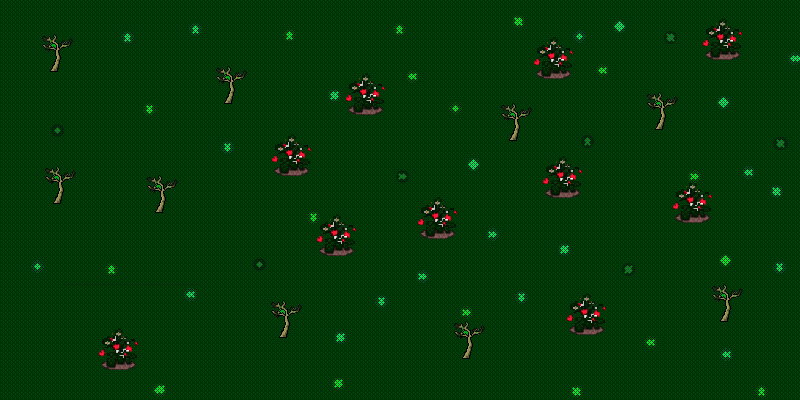
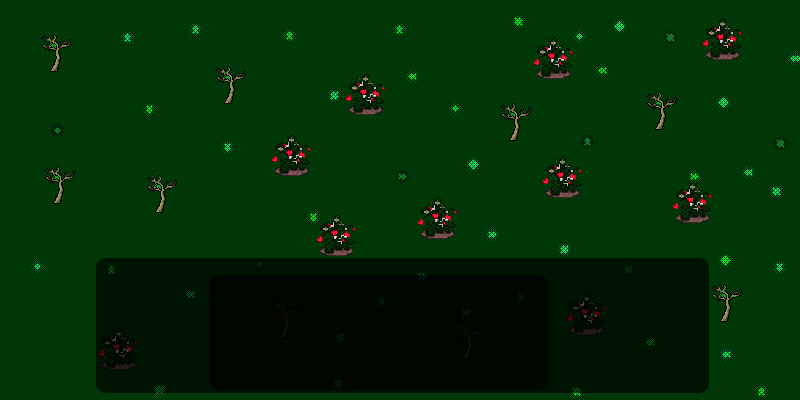
add background image to menu

Changed region(s): [[0.0938, 0.63, 0.9062, 0.99]]

diff --git a/Entity/Entity.py b/Entity/Entity.py
@@ -1,6 +1,7 @@
 from pygame.sprite import AbstractGroup, Sprite
 from pygame.sprite import spritecollideany
 from pygame import Rect
+from pygame.transform import flip
 
 
 class Entity(Sprite):
@@ -28,7 +29,7 @@ class Entity(Sprite):
         self.now_time = 0
 
         # pricing
-        self.price = fm.get_function("SimpleFunctionsManager").\
+        self.price = fm.get_function("SimpleFunctionsManager"). \
             not_round_round(2, 0, fm.get_function("SimpleVars").MAX_ELIX)
 
         # sprite init
@@ -64,6 +65,12 @@ class Entity(Sprite):
                 some_anim.append(self.image.subsurface(
                     Rect(frame_location, self.rect.size)))
             self.all_animations_file.append(some_anim)
+        for k, i in enumerate(self.all_animations_file):
+            for k1, j in enumerate(i):
+                self.all_animations_file[k][k1] = flip(
+                    self.all_animations_file[k][k1],
+                    self.fm.get_function("SimpleVars").PLAYER_TEAM_ID == self.team_id,
+                    False)
 
     def set_health(self, hp):
         self.hp = hp
@@ -83,7 +90,7 @@ class Entity(Sprite):
         entity.give_damage(self.damage)
 
     def check_death(self):
-        self.hp = self.fm.get_function('SimpleFunctionsManager')\
+        self.hp = self.fm.get_function('SimpleFunctionsManager') \
             .not_round_round(self.hp, 0, self.max_hp)
         if self.hp == 0:
             self.life_state = 0
@@ -118,6 +125,5 @@ class Entity(Sprite):
             self.image = self.all_animations_file[self.now_animation][
                 self.tick_of_animation % len(self.all_animations_file[self.now_animation])]
             self.tick_of_animation += 1
-
-
-
+            if self.now_animation == 0:
+                self.rect.x += self.speed

diff --git a/Menu/MainMenu.py b/Menu/MainMenu.py
@@ -7,6 +7,14 @@ class MainMenu(StateFather):
 
         self.current_button = 0
 
+        self.background_group = pg.sprite.Group()
+
+        self.background_sprite = pg.sprite.Sprite(self.background_group)
+        self.background_sprite.image = fm.get_function("IMGManager").load_image("menu.png")
+        self.background_sprite.rect = self.background_sprite.image.get_rect()
+        self.background_sprite.rect.x = 0
+        self.background_sprite.rect.y = 0
+
         self.buttons = ["play", "sound", "lang", "exit"]
         self.buttons_status = ["",
                                "self.fm.get_function('SoundManager').get_volume()",
@@ -15,6 +23,7 @@ class MainMenu(StateFather):
         self.actions = [self.play_action, self.sound_action, self.lang_action, self.exit_action]
 
     def draw(self):
+        self.background_group.draw(self.screen)
         for k, i in enumerate(self.buttons):
             if self.current_button == k:
                 color = (255, 0, 0)

diff --git a/Menu/BattleState.py b/Menu/BattleState.py
@@ -46,6 +46,12 @@ class BattleState(StateFather):
                 index = (index - 1) % 4
                 self.fm.get_function('SoundManager').play_sound('menu.mp3')
             self.choose_line[index].set_selected(True)
+        if event.type == self.pg.MOUSEBUTTONDOWN:
+            pos = self.pg.mouse.get_pos()
+            if event.button == 1:
+                if pos[0] <= 400:
+                    pass
+                    # spawn entity
 
     def draw(self):
         super().draw()
@@ -53,7 +59,6 @@ class BattleState(StateFather):
         self.enemy_entity.draw(self.screen)
         self.player_entity.draw(self.screen)
         self.low_line.draw(self.screen)
-
 
     def get_enemy_group(self):
         return self.enemy_entity

diff --git a/main.py b/main.py
@@ -16,7 +16,7 @@ log_it = False
 
 WIDTH, HEIGHT = 800, 400
 NAME = "Clash of Royale"
-VERSION = "2.8"
+VERSION = "3.8"
 BUILD = "6"
 STATUS = "betta"
 
